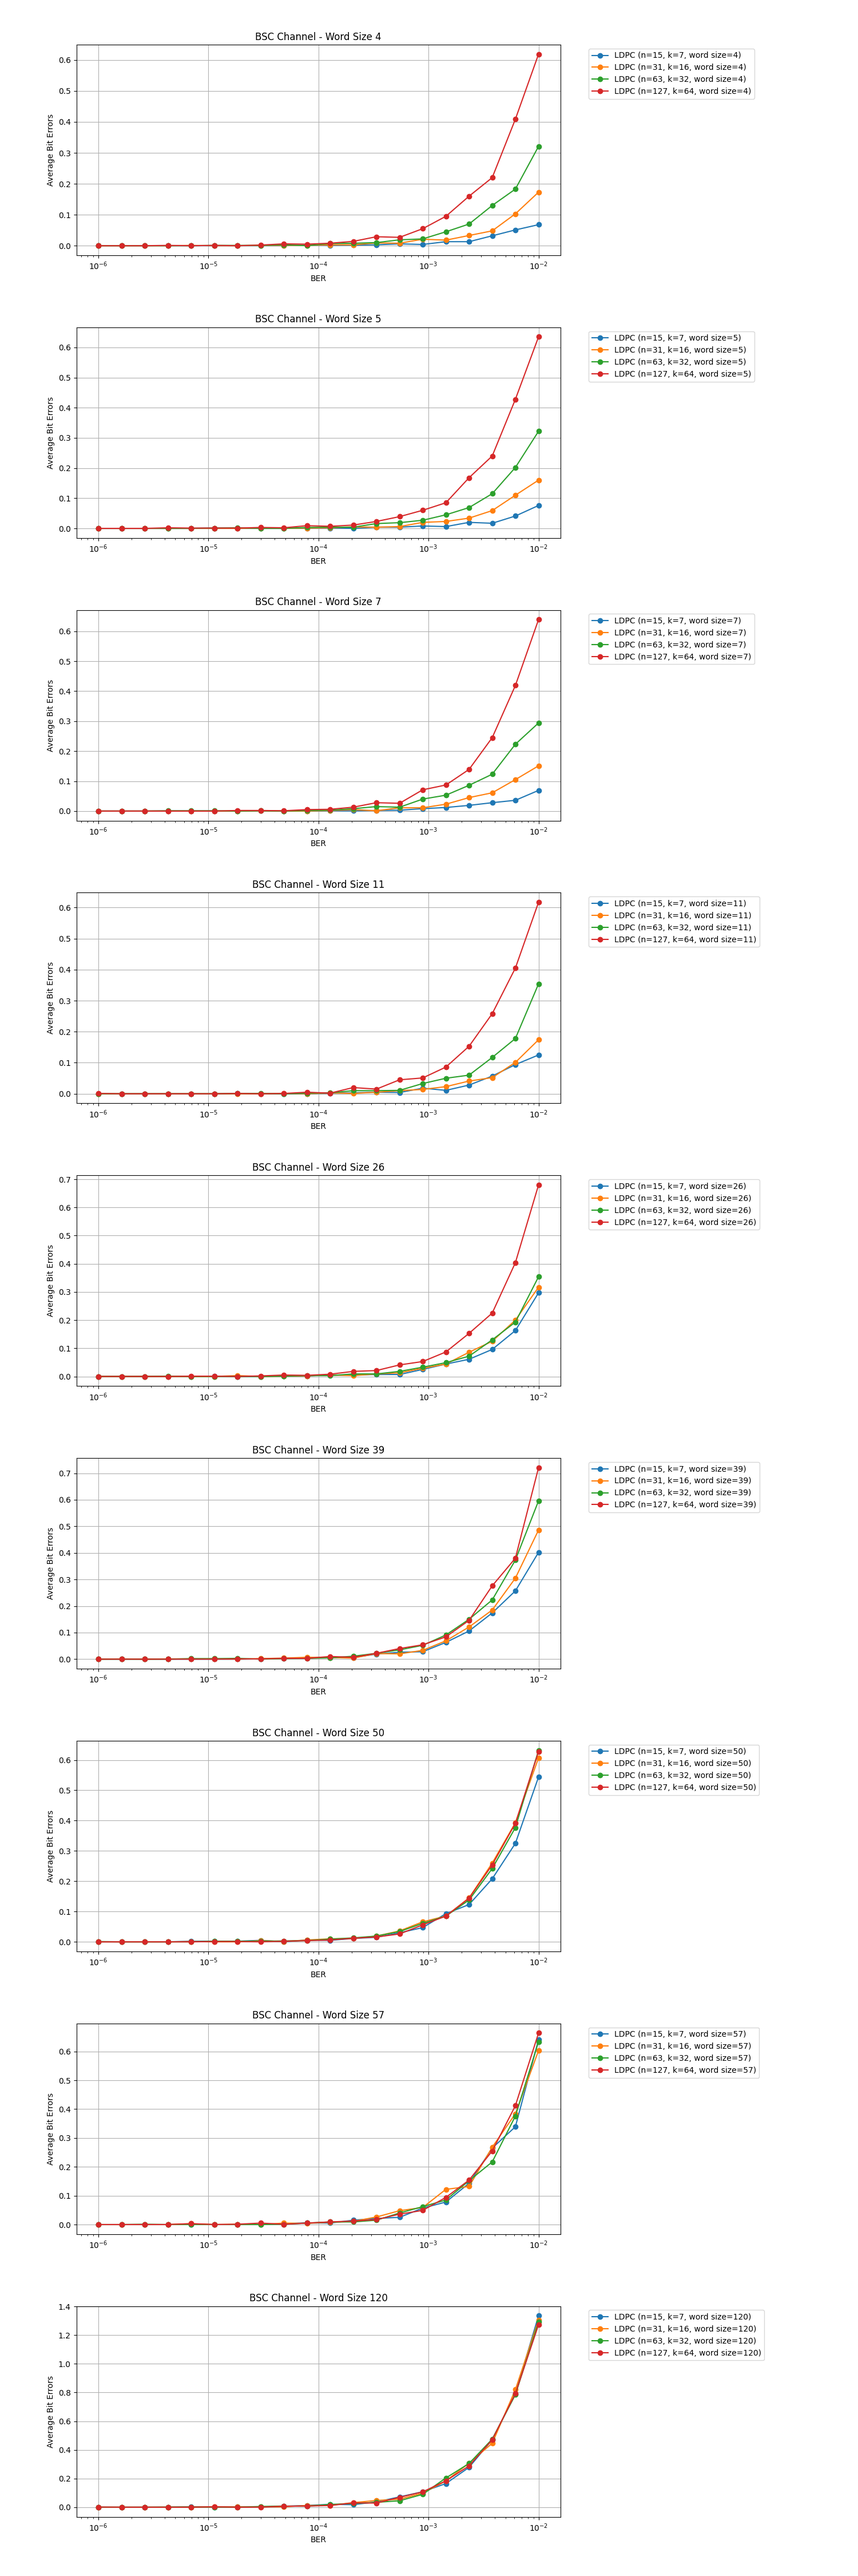
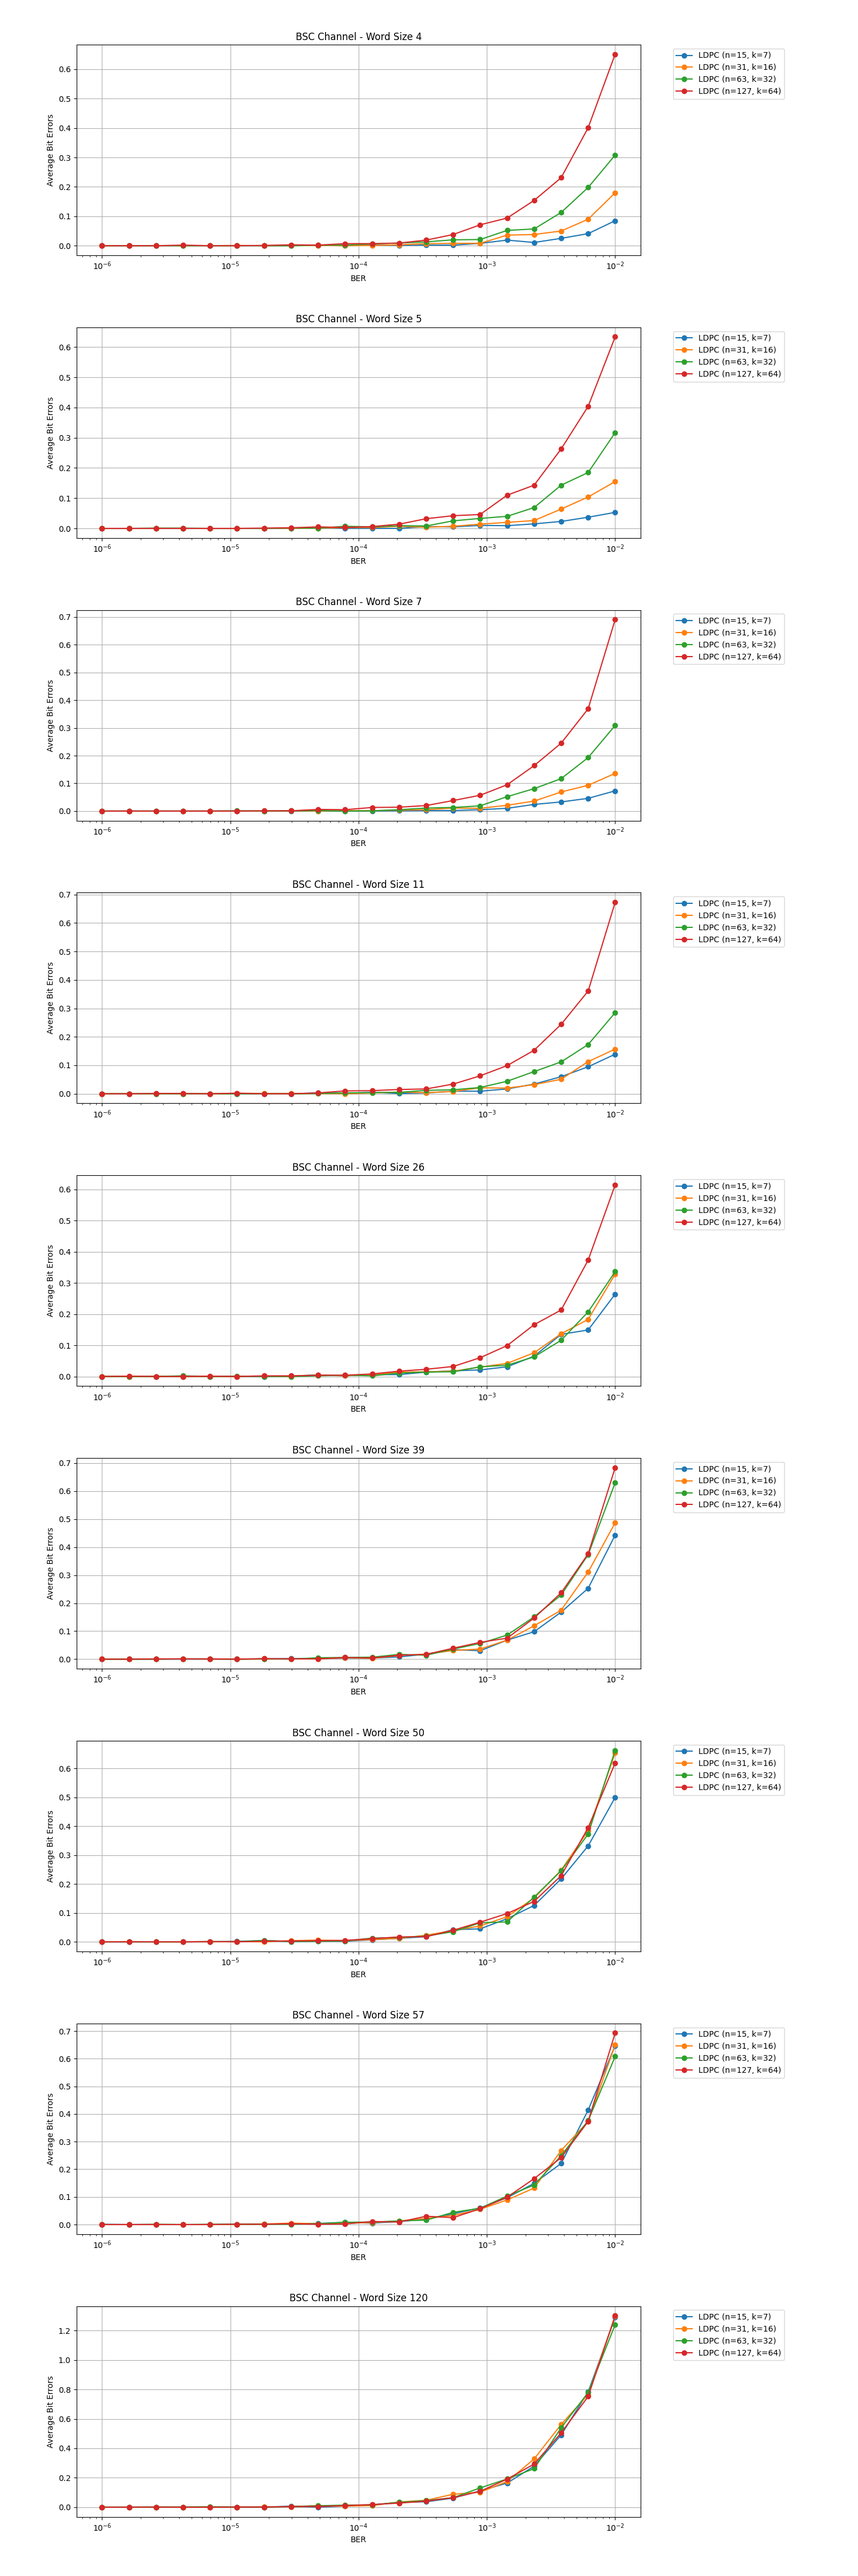
Label correction

diff --git a/monte-carlo-simulation/LDPC/scripts/LDPC_errors.py b/monte-carlo-simulation/LDPC/scripts/LDPC_errors.py
@@ -118,7 +118,7 @@ for i, word_size in enumerate(word_sizes):
     # Plot results for BSC
     for n, k in ldpc_params:
         errors_bsc = [r[3] for r in results_bsc if r[1] == n and r[2] == k]
-        ax_bsc.plot(bers, errors_bsc, label=f"LDPC (n={n}, k={k}, word size={word_size})", marker='o')
+        ax_bsc.plot(bers, errors_bsc, label=f"LDPC (n={n}, k={k})", marker='o')
 
     ax_bsc.set_xscale('log')
     ax_bsc.set_xlabel("BER")
@@ -132,7 +132,7 @@ for i, word_size in enumerate(word_sizes):
     # Plot results for GE
     for n, k in ldpc_params:
         errors_ge = [r[3] for r in results_ge if r[1] == n and r[2] == k]
-        ax_ge.plot(bers, errors_ge, label=f"LDPC (n={n}, k={k}, word size={word_size})", marker='x')
+        ax_ge.plot(bers, errors_ge, label=f"LDPC (n={n}, k={k})", marker='x')
 
     ax_ge.set_xscale('log')
     ax_ge.set_xlabel("BER")
